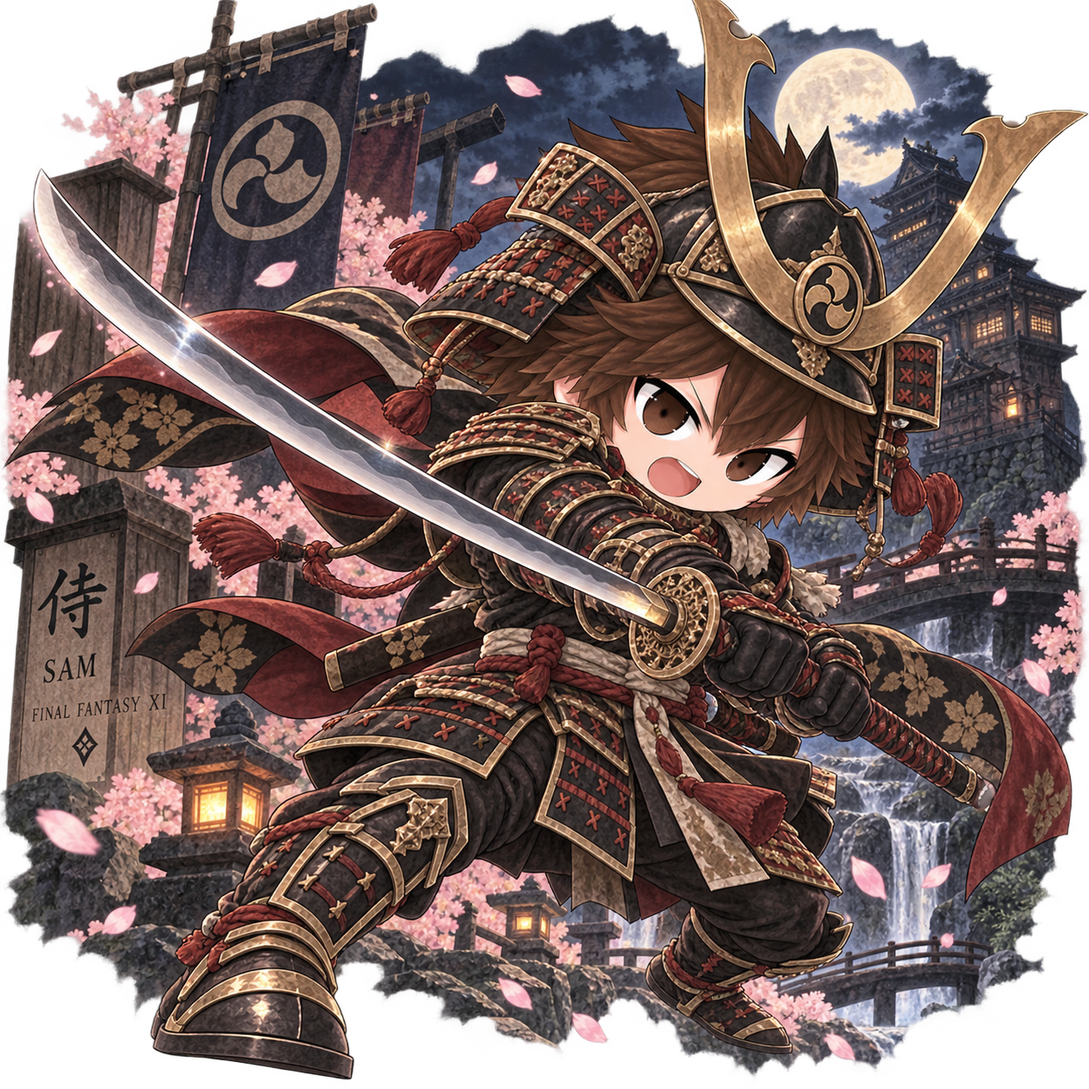
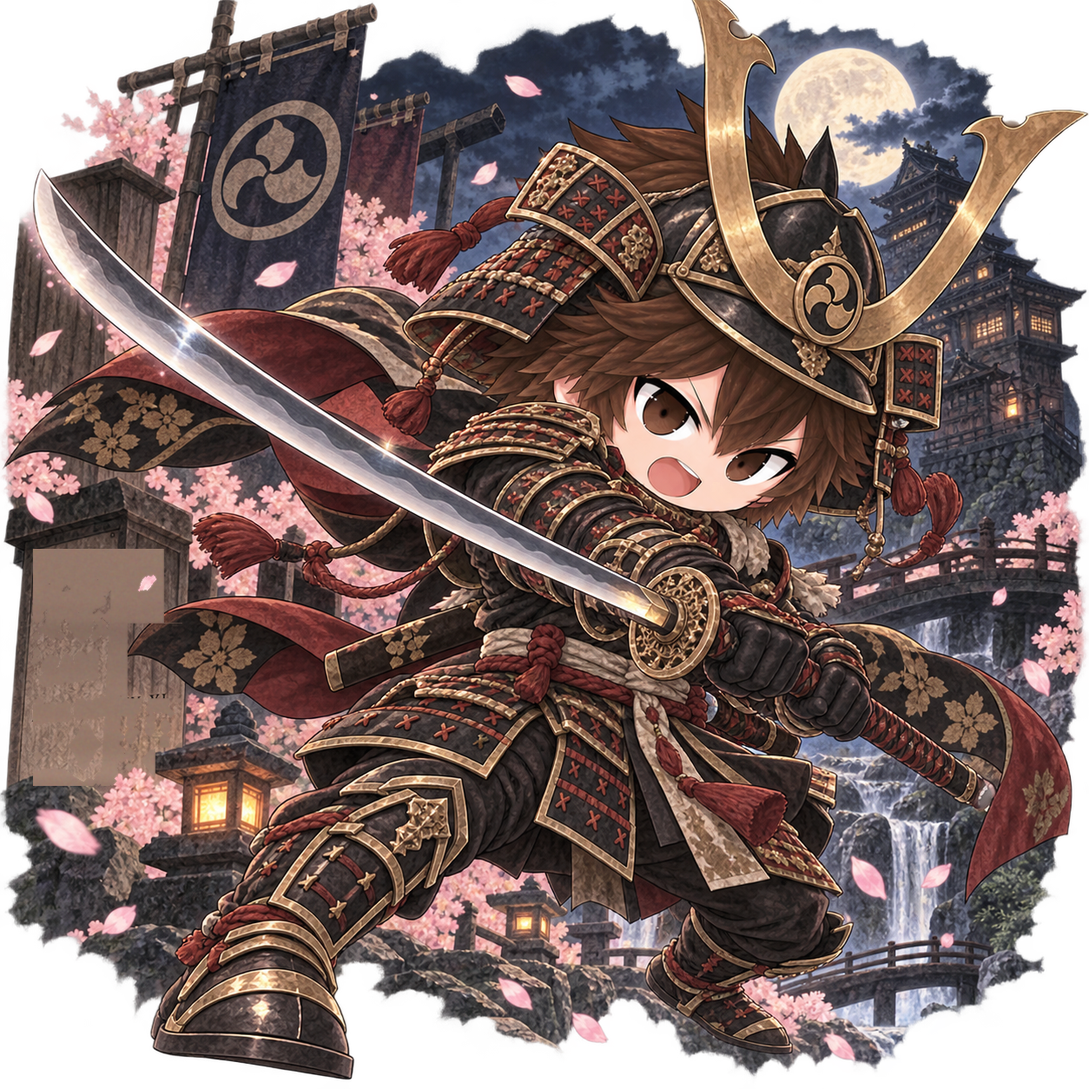
Job art: SAM v2 (text removed)

Changed region(s): [[0.0311, 0.4976, 0.1555, 0.7464]]

diff --git a/jobs.html b/jobs.html
@@ -1,4 +1,4 @@
 <!DOCTYPE html><html lang="en"><head><meta charset="utf-8"><meta name="viewport" content="width=device-width,initial-scale=1"><title>Jobs — EmberXI Wiki</title><link rel="stylesheet" href="style.css?v=1789040350"></head><body>
 <div id="side"><div id="logo"><a href="index.html"><div class="logo-title">EMBER XI<br>WIKI</div><div class="logo-sub">A Family Resource for Vana'diel</div></a></div><div class="portal"><h3>Main</h3><ul><li><a href="index.html">Main Page</a></li><li><a href="new-players.html">New Players</a></li><li><a href="rules.html">Server Rules</a></li><li><a href="xp-guide.html">EXP Guide</a></li><li><a href="jobs.html">Jobs</a></li><li><a href="trusts.html">Trusts</a></li><li><a href="avatars.html">Avatars</a></li><li><a href="eco-warrior.html">Eco-Warrior</a></li><li><a href="missions.html">Missions</a></li><li><a href="nms.html">NMs</a></li><li><a href="sky.html">Sky</a></li><li><a href="sea.html">Sea</a></li><li><a href="hnm.html">HNM</a></li></ul></div><div class="portal"><h3>EmberXI Content</h3><ul><li><a href="limit-break.html">Limit Break</a></li><li><a href="fountain.html">The Fountain</a></li><li><a href="ember-trials.html">Ember Trials</a></li><li><a href="ambuscade.html">Ambuscade</a></li><li><a href="nine-teeth.html">Nine Teeth</a></li><li><a href="henge.html">The Henge</a></li><li><a href="forge.html">Brandt & Teodor</a></li><li><a href="shami.html">Shami & Orbs</a></li><li><a href="spark-store.html">Spark Store</a></li></ul></div><div class="portal"><h3>Coming Soon</h3><ul><li><span class="soon">CoP</span></li><li><span class="soon">ToAU</span></li><li><span class="soon">Quests</span></li></ul></div><div class="portal"><h3>Tools</h3><ul><li><a href="https://emberxi.wordpress.com">News Site</a></li></ul></div></div>
 <div id="main"><div id="top"><div class="tabs-l"><a class="on" href="#">Jobs</a><a href="#">Discussion</a></div><div class="tabs-r"><a class="on" href="#">Read</a><a href="#">History</a><form class="search" onsubmit="return false"><input placeholder="Search EmberXI Wiki"></form></div></div>
-<div id="content"><h1 class="firstHeading">Jobs</h1><div class="article"><p>Your <b>Main Job</b> is the job that gains experience. A <b>Support Job</b> (sub) is a second job at half your main level; it gives you its abilities, traits and spells up to that level.</p><p>The "Standard Jobs" below are available to every new character. The "Advanced Jobs" are unlocked by completing a quest after level 30.</p><h2>Standard Jobs</h2><p>There are six standard jobs available to all starting players.</p><div class="jobgrid2"><div class="jobrow"><a href="job-war.html" class="jobpic"><img src="img/job-war.png?v=1789072090" alt="Warrior"></a><div><h3 id="war"><a href="job-war.html">Warrior</a></h3><p>Masters of weapons. Warriors stand in front and protect the party. The easiest first job, and the best support job for melee.</p></div></div><div class="jobrow"><a href="job-mnk.html" class="jobpic"><img src="img/job-mnk.png?v=1789040350" alt="Monk"></a><div><h3 id="mnk"><a href="job-mnk.html">Monk</a></h3><p>Fighters who use their fists. Fast punches, high HP and the best Hand-to-Hand skill. Very good solo from level 1.</p></div></div><div class="jobrow"><a href="job-thf.html" class="jobpic"><img src="img/job-thf.png?v=1789040350" alt="Thief"></a><div><h3 id="thf"><a href="job-thf.html">Thief</a></h3><p>Sneak Attack, Trick Attack and Treasure Hunter for more drops. Works best with a Trust tank in front.</p></div></div><div class="jobrow"><a href="job-whm.html" class="jobpic"><img src="img/job-whm.png?v=1789071943" alt="White Mage"></a><div><h3 id="whm"><a href="job-whm.html">White Mage</a></h3><p>The main healer: Cure, Regen, Erase and Raise. With Trusts on EmberXI a White Mage can play solo too.</p></div></div><div class="jobrow"><a href="job-blm.html" class="jobpic"><img src="img/job-blm.png?v=1789072276" alt="Black Mage"></a><div><h3 id="blm"><a href="job-blm.html">Black Mage</a></h3><p>The highest magic damage in the game: elemental nukes, Sleep, Warp and Escape. Magic Burst is +35 on EmberXI.</p></div></div><div class="jobrow"><a href="job-rdm.html" class="jobpic"><img src="img/job-rdm.png?v=1789072408" alt="Red Mage"></a><div><h3 id="rdm"><a href="job-rdm.html">Red Mage</a></h3><p>A fighter-mage: sword plus white and black magic, Refresh, Haste and Dispel. The best solo job of the era.</p></div></div></div><h2>Advanced Jobs</h2><p>By completing certain quests after reaching level 30, the door to many other jobs opens.</p><div class="jobgrid2"><div class="jobrow"><a href="job-pld.html" class="jobpic"><img src="img/job-pld.png?v=1789073072" alt="Paladin"></a><div><h3 id="pld"><a href="job-pld.html">Paladin</a></h3><p>The knight with white magic: the best tank of the era. Cure, Provoke, Sentinel and Invincible.</p></div></div><div class="jobrow"><a href="job-drk.html" class="jobpic"><img src="img/job-drk.png?v=1789073341" alt="Dark Knight"></a><div><h3 id="drk"><a href="job-drk.html">Dark Knight</a></h3><p>High damage with Scythe and Great Sword, plus black magic, Absorb spells and Stun. Uses its own HP for power.</p></div></div><div class="jobrow"><a href="job-bst.html" class="jobpic"><img src="img/job-bst.png?v=1789073830" alt="Beastmaster"></a><div><h3 id="bst"><a href="job-bst.html">Beastmaster</a></h3><p>Charms monsters and fights beside them, or calls Jug Pets. The best solo job even without Trusts.</p></div></div><div class="jobrow"><a href="job-brd.html" class="jobpic"><img src="img/job-brd.png?v=1789074444" alt="Bard"></a><div><h3 id="brd"><a href="job-brd.html">Bard</a></h3><p>Songs that speed up the party, restore MP and put enemies to sleep. The backbone of every era party.</p></div></div><div class="jobrow"><a href="job-rng.html" class="jobpic"><img src="img/job-rng.png?v=1789074684" alt="Ranger"></a><div><h3 id="rng"><a href="job-rng.html">Ranger</a></h3><p>Ranged damage with Bow and Gun, Barrage and Sharpshot. Needs arrows or bullets from the Auction House.</p></div></div><div class="jobrow"><a href="job-sam.html" class="jobpic"><img src="img/job-sam.png?v=1789075117" alt="Samurai"></a><div><h3 id="sam"><a href="job-sam.html">Samurai</a></h3><p>Master of Weapon Skills: fast TP with Meditate and Hasso, and Third Eye to dodge. The king of skillchains.</p></div></div><div class="jobrow"><a href="job-nin.html" class="jobpic"><img src="img/job-nin.png?v=1789050095" alt="Ninja"></a><div><h3 id="nin"><a href="job-nin.html">Ninja</a></h3><p>Utsusemi shadows absorb hits; Ninjutsu gives elemental damage and debuffs. The best evasion tank of the era.</p></div></div><div class="jobrow"><a href="job-drg.html" class="jobpic"><img src="img/job-drg.png?v=1789055767" alt="Dragoon"></a><div><h3 id="drg"><a href="job-drg.html">Dragoon</a></h3><p>Lance and Wyvern. Jump, High Jump and Super Jump for damage and enmity control. The Wyvern heals and fights with you.</p></div></div><div class="jobrow"><a href="job-smn.html" class="jobpic"><img src="img/job-smn.png?v=1789065532" alt="Summoner"></a><div><h3 id="smn"><a href="job-smn.html">Summoner</a></h3><p>Makes pacts with Avatars: Carbuncle, then the six, then Fenrir. The avatar fights for you with Blood Pacts. Support, damage and healing.</p></div></div><div class="jobrow"><a href="job-blu.html" class="jobpic"><img src="img/job-blu.png?v=1789066041" alt="Blue Mage"></a><div><h3 id="blu"><a href="job-blu.html">Blue Mage</a></h3><p>Learns monster spells (Blue Magic) by killing monsters after they use the move. Sword plus a flexible spell set.</p></div></div><div class="jobrow"><a href="job-cor.html" class="jobpic"><img src="img/job-cor.png?v=1789066875" alt="Corsair"></a><div><h3 id="cor"><a href="job-cor.html">Corsair</a></h3><p>A pirate with a gun and Phantom Rolls: luck-based buffs for the party and Hexagun damage.</p></div></div><div class="jobrow"><a href="job-pup.html" class="jobpic"><img src="img/job-pup.png?v=1789070510" alt="Puppetmaster"></a><div><h3 id="pup"><a href="job-pup.html">Puppetmaster</a></h3><p>Controls an Automaton that can be a tank, healer or mage depending on its Attachments.</p></div></div><div class="jobrow"><a href="job-dnc.html" class="jobpic"><img src="img/job-dnc.png?v=1789070942" alt="Dancer"></a><div><h3 id="dnc"><a href="job-dnc.html">Dancer</a></h3><p>Fights with daggers and turns TP into cures, buffs and debuffs with Waltzes, Sambas and Steps. Heals itself, so it is very good solo.</p></div></div><div class="jobrow"><a href="job-sch.html" class="jobpic"><img src="img/job-sch.png?v=1789072325" alt="Scholar"></a><div><h3 id="sch"><a href="job-sch.html">Scholar</a></h3><p>A flexible mage with two stances: Light Arts (white magic) and Dark Arts (black magic), plus Stratagems for faster or cheaper spells.</p></div></div></div><h2>Jobs of Vana'diel by Era</h2><table class="wikitable" dir="ltr"><tr><th>Expansion</th><th></th><th>Jobs</th></tr><tr><td dir="auto">Final Fantasy XI (2002–2004)</td><td dir="auto">Standard Jobs</td><td dir="auto"><a href="job-war.html">Warrior</a> · <a href="job-mnk.html">Monk</a> · <a href="job-thf.html">Thief</a> · <a href="job-whm.html">White Mage</a> · <a href="job-blm.html">Black Mage</a> · <a href="job-rdm.html">Red Mage</a></td></tr><tr><td dir="auto"></td><td dir="auto">Advanced Jobs</td><td dir="auto"><a href="job-pld.html">Paladin</a> · <a href="job-drk.html">Dark Knight</a> · <a href="job-bst.html">Beastmaster</a> · <a href="job-brd.html">Bard</a> · <a href="job-rng.html">Ranger</a></td></tr><tr><td dir="auto">Rise of the Zilart (2003–2004)</td><td dir="auto"></td><td dir="auto"><a href="job-smn.html">Summoner</a> · <a href="job-sam.html">Samurai</a> · <a href="job-nin.html">Ninja</a> · <a href="job-drg.html">Dragoon</a></td></tr><tr><td dir="auto">Chains of Promathia (2004)</td><td dir="auto"></td><td dir="auto">None</td></tr><tr><td dir="auto">Treasures of Aht Urhgan (2006)</td><td dir="auto"></td><td dir="auto"><a href="job-blu.html">Blue Mage</a> · <a href="job-cor.html">Corsair</a> · <a href="job-pup.html">Puppetmaster</a></td></tr><tr><td dir="auto">Wings of the Goddess (2007)</td><td dir="auto"></td><td dir="auto"><a href="job-dnc.html">Dancer</a> · <a href="job-sch.html">Scholar</a></td></tr></table></div><div id="foot">Last edited: 8 September 2026 · EmberXI Wiki</div></div></div></body></html>
+<div id="content"><h1 class="firstHeading">Jobs</h1><div class="article"><p>Your <b>Main Job</b> is the job that gains experience. A <b>Support Job</b> (sub) is a second job at half your main level; it gives you its abilities, traits and spells up to that level.</p><p>The "Standard Jobs" below are available to every new character. The "Advanced Jobs" are unlocked by completing a quest after level 30.</p><h2>Standard Jobs</h2><p>There are six standard jobs available to all starting players.</p><div class="jobgrid2"><div class="jobrow"><a href="job-war.html" class="jobpic"><img src="img/job-war.png?v=1789072090" alt="Warrior"></a><div><h3 id="war"><a href="job-war.html">Warrior</a></h3><p>Masters of weapons. Warriors stand in front and protect the party. The easiest first job, and the best support job for melee.</p></div></div><div class="jobrow"><a href="job-mnk.html" class="jobpic"><img src="img/job-mnk.png?v=1789040350" alt="Monk"></a><div><h3 id="mnk"><a href="job-mnk.html">Monk</a></h3><p>Fighters who use their fists. Fast punches, high HP and the best Hand-to-Hand skill. Very good solo from level 1.</p></div></div><div class="jobrow"><a href="job-thf.html" class="jobpic"><img src="img/job-thf.png?v=1789040350" alt="Thief"></a><div><h3 id="thf"><a href="job-thf.html">Thief</a></h3><p>Sneak Attack, Trick Attack and Treasure Hunter for more drops. Works best with a Trust tank in front.</p></div></div><div class="jobrow"><a href="job-whm.html" class="jobpic"><img src="img/job-whm.png?v=1789071943" alt="White Mage"></a><div><h3 id="whm"><a href="job-whm.html">White Mage</a></h3><p>The main healer: Cure, Regen, Erase and Raise. With Trusts on EmberXI a White Mage can play solo too.</p></div></div><div class="jobrow"><a href="job-blm.html" class="jobpic"><img src="img/job-blm.png?v=1789072276" alt="Black Mage"></a><div><h3 id="blm"><a href="job-blm.html">Black Mage</a></h3><p>The highest magic damage in the game: elemental nukes, Sleep, Warp and Escape. Magic Burst is +35 on EmberXI.</p></div></div><div class="jobrow"><a href="job-rdm.html" class="jobpic"><img src="img/job-rdm.png?v=1789072408" alt="Red Mage"></a><div><h3 id="rdm"><a href="job-rdm.html">Red Mage</a></h3><p>A fighter-mage: sword plus white and black magic, Refresh, Haste and Dispel. The best solo job of the era.</p></div></div></div><h2>Advanced Jobs</h2><p>By completing certain quests after reaching level 30, the door to many other jobs opens.</p><div class="jobgrid2"><div class="jobrow"><a href="job-pld.html" class="jobpic"><img src="img/job-pld.png?v=1789073072" alt="Paladin"></a><div><h3 id="pld"><a href="job-pld.html">Paladin</a></h3><p>The knight with white magic: the best tank of the era. Cure, Provoke, Sentinel and Invincible.</p></div></div><div class="jobrow"><a href="job-drk.html" class="jobpic"><img src="img/job-drk.png?v=1789073341" alt="Dark Knight"></a><div><h3 id="drk"><a href="job-drk.html">Dark Knight</a></h3><p>High damage with Scythe and Great Sword, plus black magic, Absorb spells and Stun. Uses its own HP for power.</p></div></div><div class="jobrow"><a href="job-bst.html" class="jobpic"><img src="img/job-bst.png?v=1789073830" alt="Beastmaster"></a><div><h3 id="bst"><a href="job-bst.html">Beastmaster</a></h3><p>Charms monsters and fights beside them, or calls Jug Pets. The best solo job even without Trusts.</p></div></div><div class="jobrow"><a href="job-brd.html" class="jobpic"><img src="img/job-brd.png?v=1789074444" alt="Bard"></a><div><h3 id="brd"><a href="job-brd.html">Bard</a></h3><p>Songs that speed up the party, restore MP and put enemies to sleep. The backbone of every era party.</p></div></div><div class="jobrow"><a href="job-rng.html" class="jobpic"><img src="img/job-rng.png?v=1789074684" alt="Ranger"></a><div><h3 id="rng"><a href="job-rng.html">Ranger</a></h3><p>Ranged damage with Bow and Gun, Barrage and Sharpshot. Needs arrows or bullets from the Auction House.</p></div></div><div class="jobrow"><a href="job-sam.html" class="jobpic"><img src="img/job-sam.png?v=1789075313" alt="Samurai"></a><div><h3 id="sam"><a href="job-sam.html">Samurai</a></h3><p>Master of Weapon Skills: fast TP with Meditate and Hasso, and Third Eye to dodge. The king of skillchains.</p></div></div><div class="jobrow"><a href="job-nin.html" class="jobpic"><img src="img/job-nin.png?v=1789050095" alt="Ninja"></a><div><h3 id="nin"><a href="job-nin.html">Ninja</a></h3><p>Utsusemi shadows absorb hits; Ninjutsu gives elemental damage and debuffs. The best evasion tank of the era.</p></div></div><div class="jobrow"><a href="job-drg.html" class="jobpic"><img src="img/job-drg.png?v=1789055767" alt="Dragoon"></a><div><h3 id="drg"><a href="job-drg.html">Dragoon</a></h3><p>Lance and Wyvern. Jump, High Jump and Super Jump for damage and enmity control. The Wyvern heals and fights with you.</p></div></div><div class="jobrow"><a href="job-smn.html" class="jobpic"><img src="img/job-smn.png?v=1789065532" alt="Summoner"></a><div><h3 id="smn"><a href="job-smn.html">Summoner</a></h3><p>Makes pacts with Avatars: Carbuncle, then the six, then Fenrir. The avatar fights for you with Blood Pacts. Support, damage and healing.</p></div></div><div class="jobrow"><a href="job-blu.html" class="jobpic"><img src="img/job-blu.png?v=1789066041" alt="Blue Mage"></a><div><h3 id="blu"><a href="job-blu.html">Blue Mage</a></h3><p>Learns monster spells (Blue Magic) by killing monsters after they use the move. Sword plus a flexible spell set.</p></div></div><div class="jobrow"><a href="job-cor.html" class="jobpic"><img src="img/job-cor.png?v=1789066875" alt="Corsair"></a><div><h3 id="cor"><a href="job-cor.html">Corsair</a></h3><p>A pirate with a gun and Phantom Rolls: luck-based buffs for the party and Hexagun damage.</p></div></div><div class="jobrow"><a href="job-pup.html" class="jobpic"><img src="img/job-pup.png?v=1789070510" alt="Puppetmaster"></a><div><h3 id="pup"><a href="job-pup.html">Puppetmaster</a></h3><p>Controls an Automaton that can be a tank, healer or mage depending on its Attachments.</p></div></div><div class="jobrow"><a href="job-dnc.html" class="jobpic"><img src="img/job-dnc.png?v=1789070942" alt="Dancer"></a><div><h3 id="dnc"><a href="job-dnc.html">Dancer</a></h3><p>Fights with daggers and turns TP into cures, buffs and debuffs with Waltzes, Sambas and Steps. Heals itself, so it is very good solo.</p></div></div><div class="jobrow"><a href="job-sch.html" class="jobpic"><img src="img/job-sch.png?v=1789072325" alt="Scholar"></a><div><h3 id="sch"><a href="job-sch.html">Scholar</a></h3><p>A flexible mage with two stances: Light Arts (white magic) and Dark Arts (black magic), plus Stratagems for faster or cheaper spells.</p></div></div></div><h2>Jobs of Vana'diel by Era</h2><table class="wikitable" dir="ltr"><tr><th>Expansion</th><th></th><th>Jobs</th></tr><tr><td dir="auto">Final Fantasy XI (2002–2004)</td><td dir="auto">Standard Jobs</td><td dir="auto"><a href="job-war.html">Warrior</a> · <a href="job-mnk.html">Monk</a> · <a href="job-thf.html">Thief</a> · <a href="job-whm.html">White Mage</a> · <a href="job-blm.html">Black Mage</a> · <a href="job-rdm.html">Red Mage</a></td></tr><tr><td dir="auto"></td><td dir="auto">Advanced Jobs</td><td dir="auto"><a href="job-pld.html">Paladin</a> · <a href="job-drk.html">Dark Knight</a> · <a href="job-bst.html">Beastmaster</a> · <a href="job-brd.html">Bard</a> · <a href="job-rng.html">Ranger</a></td></tr><tr><td dir="auto">Rise of the Zilart (2003–2004)</td><td dir="auto"></td><td dir="auto"><a href="job-smn.html">Summoner</a> · <a href="job-sam.html">Samurai</a> · <a href="job-nin.html">Ninja</a> · <a href="job-drg.html">Dragoon</a></td></tr><tr><td dir="auto">Chains of Promathia (2004)</td><td dir="auto"></td><td dir="auto">None</td></tr><tr><td dir="auto">Treasures of Aht Urhgan (2006)</td><td dir="auto"></td><td dir="auto"><a href="job-blu.html">Blue Mage</a> · <a href="job-cor.html">Corsair</a> · <a href="job-pup.html">Puppetmaster</a></td></tr><tr><td dir="auto">Wings of the Goddess (2007)</td><td dir="auto"></td><td dir="auto"><a href="job-dnc.html">Dancer</a> · <a href="job-sch.html">Scholar</a></td></tr></table></div><div id="foot">Last edited: 8 September 2026 · EmberXI Wiki</div></div></div></body></html>

diff --git a/job-sam.html b/job-sam.html
@@ -1,4 +1,4 @@
 <!DOCTYPE html><html lang="en"><head><meta charset="utf-8"><meta name="viewport" content="width=device-width,initial-scale=1"><title>Samurai — EmberXI Wiki</title><link rel="stylesheet" href="style.css?v=1789040350"></head><body>
 <div id="side"><div id="logo"><a href="index.html"><div class="logo-title">EMBER XI<br>WIKI</div><div class="logo-sub">A Family Resource for Vana'diel</div></a></div><div class="portal"><h3>Main</h3><ul><li><a href="index.html">Main Page</a></li><li><a href="new-players.html">New Players</a></li><li><a href="rules.html">Server Rules</a></li><li><a href="xp-guide.html">EXP Guide</a></li><li><a href="jobs.html">Jobs</a></li><li><a href="trusts.html">Trusts</a></li><li><a href="avatars.html">Avatars</a></li><li><a href="eco-warrior.html">Eco-Warrior</a></li><li><a href="missions.html">Missions</a></li><li><a href="nms.html">NMs</a></li><li><a href="sky.html">Sky</a></li><li><a href="sea.html">Sea</a></li><li><a href="hnm.html">HNM</a></li></ul></div><div class="portal"><h3>EmberXI Content</h3><ul><li><a href="limit-break.html">Limit Break</a></li><li><a href="fountain.html">The Fountain</a></li><li><a href="ember-trials.html">Ember Trials</a></li><li><a href="ambuscade.html">Ambuscade</a></li><li><a href="nine-teeth.html">Nine Teeth</a></li><li><a href="henge.html">The Henge</a></li><li><a href="forge.html">Brandt & Teodor</a></li><li><a href="shami.html">Shami & Orbs</a></li><li><a href="spark-store.html">Spark Store</a></li></ul></div><div class="portal"><h3>Coming Soon</h3><ul><li><span class="soon">CoP</span></li><li><span class="soon">ToAU</span></li><li><span class="soon">Quests</span></li></ul></div><div class="portal"><h3>Tools</h3><ul><li><a href="https://emberxi.wordpress.com">News Site</a></li></ul></div></div>
 <div id="main"><div id="top"><div class="tabs-l"><a class="on" href="#">Samurai</a><a href="#">Discussion</a></div><div class="tabs-r"><a class="on" href="#">Read</a><a href="#">History</a><form class="search" onsubmit="return false"><input placeholder="Search EmberXI Wiki"></form></div></div>
-<div id="content"><h1 class="firstHeading">Samurai</h1><div class="article"><div class="lead"><table class="infobox"><tr><th colspan="2" class="ib-title">Samurai</th></tr><tr><td class="ib-label">Abbreviation</td><td>SAM</td></tr><tr><td class="ib-label">Expansion</td><td>Rise of the Zilart</td></tr><tr><td class="ib-label">How to Unlock</td><td>Forge Your Destiny</td></tr><tr><td class="ib-label">Page Contents</td><td><a href="#ab">Abilities</a> · <a href="#tr">Traits</a> · <a href="#sk">Skills</a></td></tr></table><div><img class="jobart" src="img/job-sam.png?v=1789075117" alt="Samurai"><p>Master of Weapon Skills: fast TP with Meditate and Hasso, and Third Eye to dodge. The king of skillchains.</p></div></div><h2 id="ab">Job Abilities</h2><table class="wikitable" dir="ltr"><tr><th>Level</th><th>Name</th></tr><tr><td dir="auto">1</td><td dir="auto">Meikyo Shisui</td></tr><tr><td dir="auto">5</td><td dir="auto">Warding Circle</td></tr><tr><td dir="auto">15</td><td dir="auto">Third Eye</td></tr><tr><td dir="auto">25</td><td dir="auto">Hasso</td></tr><tr><td dir="auto">30</td><td dir="auto">Meditate</td></tr><tr><td dir="auto">35</td><td dir="auto">Seigan</td></tr><tr><td dir="auto">40</td><td dir="auto">Sekkanoki</td></tr><tr><td dir="auto">65</td><td dir="auto">Konzen-Ittai</td></tr><tr><td dir="auto">75</td><td dir="auto">Blade Bash</td></tr><tr><td dir="auto">75</td><td dir="auto">Shikikoyo</td></tr></table><h2 id="tr">Job Traits</h2><table class="wikitable" dir="ltr"><tr><th>Level</th><th>Trait</th></tr><tr><td dir="auto">5</td><td dir="auto">Resist Blind</td></tr><tr><td dir="auto">10</td><td dir="auto">Store TP</td></tr><tr><td dir="auto">20</td><td dir="auto">Zanshin</td></tr><tr><td dir="auto">25</td><td dir="auto">Resist Blind II</td></tr><tr><td dir="auto">30</td><td dir="auto">Store TP II</td></tr><tr><td dir="auto">35</td><td dir="auto">Zanshin II</td></tr><tr><td dir="auto">40</td><td dir="auto">Damage Limit+</td></tr><tr><td dir="auto">40</td><td dir="auto">Demon Killer</td></tr><tr><td dir="auto">45</td><td dir="auto">Resist Blind III</td></tr><tr><td dir="auto">50</td><td dir="auto">Store TP III</td></tr><tr><td dir="auto">50</td><td dir="auto">Zanshin III</td></tr><tr><td dir="auto">65</td><td dir="auto">Resist Blind IV</td></tr><tr><td dir="auto">70</td><td dir="auto">Store TP IV</td></tr><tr><td dir="auto">75</td><td dir="auto">Ikishoten</td></tr><tr><td dir="auto">75</td><td dir="auto">Overwhelm</td></tr><tr><td dir="auto">75</td><td dir="auto">Zanshin IV</td></tr></table><h2 id="sk">Skills</h2><table class="wikitable" dir="ltr"><tr><th>Skill</th><th>Rank</th><th>Lv 37</th><th>Lv 75</th></tr><tr><td dir="auto">Dagger</td><td dir="auto">E</td><td dir="auto">94</td><td dir="auto">200</td></tr><tr><td dir="auto">Sword</td><td dir="auto">C+</td><td dir="auto">105</td><td dir="auto">230</td></tr><tr><td dir="auto">Polearm</td><td dir="auto">B-</td><td dir="auto">109</td><td dir="auto">240</td></tr><tr><td dir="auto">great katana</td><td dir="auto">A+</td><td dir="auto">114</td><td dir="auto">276</td></tr><tr><td dir="auto">Club</td><td dir="auto">E</td><td dir="auto">94</td><td dir="auto">200</td></tr><tr><td dir="auto">Archery</td><td dir="auto">C+</td><td dir="auto">105</td><td dir="auto">230</td></tr><tr><td dir="auto">Throwing</td><td dir="auto">C+</td><td dir="auto">105</td><td dir="auto">230</td></tr><tr><td dir="auto">Evasion</td><td dir="auto">B+</td><td dir="auto">109</td><td dir="auto">256</td></tr><tr><td dir="auto">parrying</td><td dir="auto">A-</td><td dir="auto">114</td><td dir="auto">269</td></tr></table><h2>Artifact Armor</h2><p class="soon">Coming soon.</p></div><div id="foot">Last edited: 8 September 2026 · EmberXI Wiki</div></div></div></body></html>
+<div id="content"><h1 class="firstHeading">Samurai</h1><div class="article"><div class="lead"><table class="infobox"><tr><th colspan="2" class="ib-title">Samurai</th></tr><tr><td class="ib-label">Abbreviation</td><td>SAM</td></tr><tr><td class="ib-label">Expansion</td><td>Rise of the Zilart</td></tr><tr><td class="ib-label">How to Unlock</td><td>Forge Your Destiny</td></tr><tr><td class="ib-label">Page Contents</td><td><a href="#ab">Abilities</a> · <a href="#tr">Traits</a> · <a href="#sk">Skills</a></td></tr></table><div><img class="jobart" src="img/job-sam.png?v=1789075313" alt="Samurai"><p>Master of Weapon Skills: fast TP with Meditate and Hasso, and Third Eye to dodge. The king of skillchains.</p></div></div><h2 id="ab">Job Abilities</h2><table class="wikitable" dir="ltr"><tr><th>Level</th><th>Name</th></tr><tr><td dir="auto">1</td><td dir="auto">Meikyo Shisui</td></tr><tr><td dir="auto">5</td><td dir="auto">Warding Circle</td></tr><tr><td dir="auto">15</td><td dir="auto">Third Eye</td></tr><tr><td dir="auto">25</td><td dir="auto">Hasso</td></tr><tr><td dir="auto">30</td><td dir="auto">Meditate</td></tr><tr><td dir="auto">35</td><td dir="auto">Seigan</td></tr><tr><td dir="auto">40</td><td dir="auto">Sekkanoki</td></tr><tr><td dir="auto">65</td><td dir="auto">Konzen-Ittai</td></tr><tr><td dir="auto">75</td><td dir="auto">Blade Bash</td></tr><tr><td dir="auto">75</td><td dir="auto">Shikikoyo</td></tr></table><h2 id="tr">Job Traits</h2><table class="wikitable" dir="ltr"><tr><th>Level</th><th>Trait</th></tr><tr><td dir="auto">5</td><td dir="auto">Resist Blind</td></tr><tr><td dir="auto">10</td><td dir="auto">Store TP</td></tr><tr><td dir="auto">20</td><td dir="auto">Zanshin</td></tr><tr><td dir="auto">25</td><td dir="auto">Resist Blind II</td></tr><tr><td dir="auto">30</td><td dir="auto">Store TP II</td></tr><tr><td dir="auto">35</td><td dir="auto">Zanshin II</td></tr><tr><td dir="auto">40</td><td dir="auto">Damage Limit+</td></tr><tr><td dir="auto">40</td><td dir="auto">Demon Killer</td></tr><tr><td dir="auto">45</td><td dir="auto">Resist Blind III</td></tr><tr><td dir="auto">50</td><td dir="auto">Store TP III</td></tr><tr><td dir="auto">50</td><td dir="auto">Zanshin III</td></tr><tr><td dir="auto">65</td><td dir="auto">Resist Blind IV</td></tr><tr><td dir="auto">70</td><td dir="auto">Store TP IV</td></tr><tr><td dir="auto">75</td><td dir="auto">Ikishoten</td></tr><tr><td dir="auto">75</td><td dir="auto">Overwhelm</td></tr><tr><td dir="auto">75</td><td dir="auto">Zanshin IV</td></tr></table><h2 id="sk">Skills</h2><table class="wikitable" dir="ltr"><tr><th>Skill</th><th>Rank</th><th>Lv 37</th><th>Lv 75</th></tr><tr><td dir="auto">Dagger</td><td dir="auto">E</td><td dir="auto">94</td><td dir="auto">200</td></tr><tr><td dir="auto">Sword</td><td dir="auto">C+</td><td dir="auto">105</td><td dir="auto">230</td></tr><tr><td dir="auto">Polearm</td><td dir="auto">B-</td><td dir="auto">109</td><td dir="auto">240</td></tr><tr><td dir="auto">great katana</td><td dir="auto">A+</td><td dir="auto">114</td><td dir="auto">276</td></tr><tr><td dir="auto">Club</td><td dir="auto">E</td><td dir="auto">94</td><td dir="auto">200</td></tr><tr><td dir="auto">Archery</td><td dir="auto">C+</td><td dir="auto">105</td><td dir="auto">230</td></tr><tr><td dir="auto">Throwing</td><td dir="auto">C+</td><td dir="auto">105</td><td dir="auto">230</td></tr><tr><td dir="auto">Evasion</td><td dir="auto">B+</td><td dir="auto">109</td><td dir="auto">256</td></tr><tr><td dir="auto">parrying</td><td dir="auto">A-</td><td dir="auto">114</td><td dir="auto">269</td></tr></table><h2>Artifact Armor</h2><p class="soon">Coming soon.</p></div><div id="foot">Last edited: 8 September 2026 · EmberXI Wiki</div></div></div></body></html>
